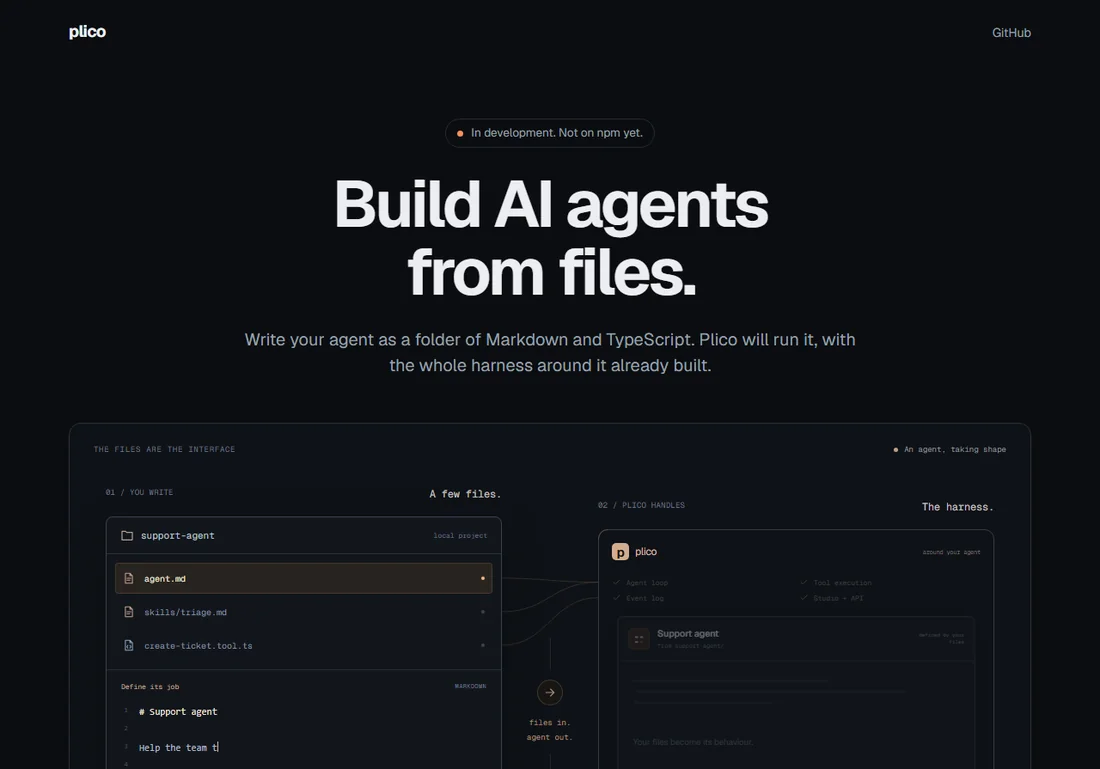
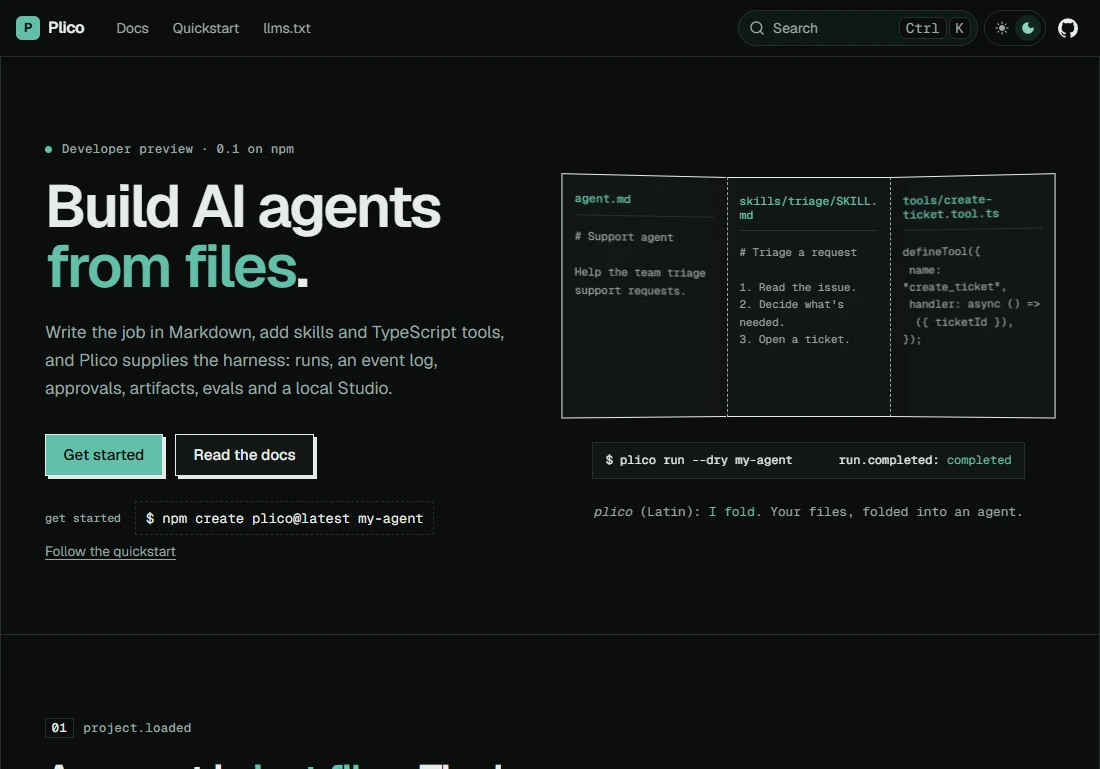
chore: refresh the Plico project image from the new plico.sohab.dev UI

diff --git a/content/github-projects.ts b/content/github-projects.ts
@@ -12,7 +12,7 @@ export const githubProjects = [
     topics: ["agent framework", "workflow kit", "developer tools"],
     image: {
       src: "/images/plico.webp",
-      alt: "Plico product interface preview",
+      alt: "Plico homepage: Build AI agents from files",
       width: 1100,
       height: 769,
     },
